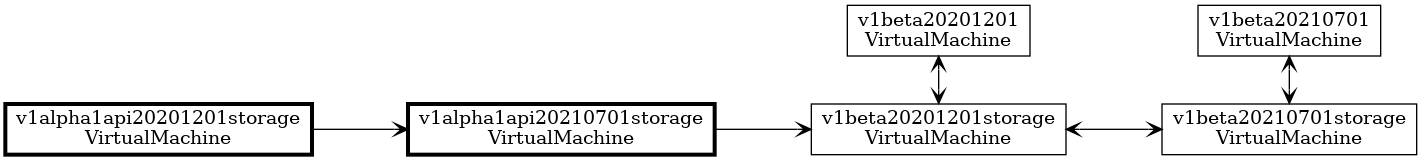
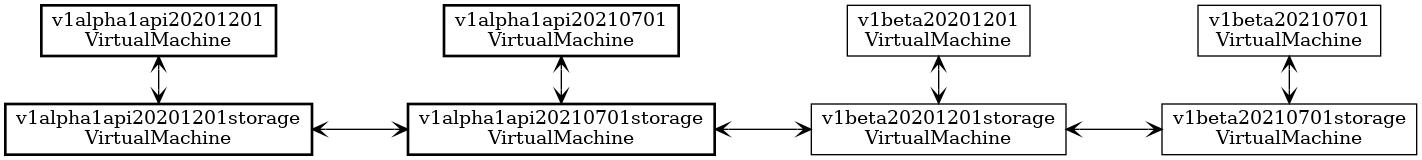
Update our decision doc on how we transition to beta (#2167)

diff --git a/docs/hugo/content/architecture-decision-records/ADR-2022-02-Backward-Compatibility.md b/docs/hugo/content/architecture-decision-records/ADR-2022-02-Backward-Compatibility.md
@@ -1,36 +1,120 @@
 # Context
 
-As we close in on a beta release, we want to modify the version prefix used for code-generated resources.
+As we close in on a beta release, we are considering modification of the version prefix used for code-generated resources.
 
-We don't want to maroon existing users of Azure Service Operator (ASO) by making this a breaking change.
+## Option 1: Do nothing
 
-Cross version compatibility between ARM versions of a resource (that is, between `v1alpha1api20180101` and `v1alpha1api20200101`) is already implemented and well tested, so we want to leverage that existing infrastructure.
+Leave all generated resources using the alpha prefix that is currently in use.
+
+Pros
+
+* Easy to implement (nothing to do) and quick to deliver
+
+Cons
+
+* Introduces an inconsistency between the status of ASO (beta) and the labelling of the resources (alpha).
+  
+* Might be perceived by some users as indicating these particular resources are still in alpha, and therefore pose significant a barrier to adoption of ASO.
+
+## Option 2: Move all resources to beta
+
+Change the generated prefix for all resources
+
+Pros
+
+* Easy to implement (change the prefix, update affected tests, and regenerate all files), and quick to deliver
+
+Cons
+
+* Existing clusters with custom resources (CRs) reliant on ASO would break because ASO would no longer support the older alpha version.  
+  Mitigation: Users would need to manually delete the existing resource and creating a new CR with an updated version.
+
+* Any attempt to apply old alpha YAML will fail, as it no longer exists. This includes attempting to manually apply a YAML using `kubectl apply -f`, and through some other approaches where YAMLs are continuously applied, as in GitOps style workflows.  
+  Mitigation: For manual uses, modification of the YAML files being applied to change the version of the resources.  
+  Mitigation: For automated uses, modification of the deployment pipelines to change the version of the resources.
+
+## Option 3a: In-place upgrade for existing resources
+
+Change the generated prefix to `v1beta` for all resources, but retain the alpha storage variants of each existing resource. This would allow an upgraded ASO installation to promote any existing resources to the new storage version.
+
+Pros
+
+* Moderate effort to implement (requires a new pipeline stage to create the alpha storage variants for compatibility with older versions).
+  
+* Existing clusters with custom resources reliant on ASO would continue to run because ASO would support conversion from the old hub version to the new.
+
+Cons
+
+* Any attempt to apply old alpha YAML will fail, as it no longer exists. This includes attempting to manually apply a YAML using `kubectl apply -f`, and through some other approaches where YAMLs are continuously applied, as in GitOps style workflows.  
+  Mitigation: For manual uses, modification of the YAML files being applied to change the version of the resources.  
+  Mitigation: For automated uses, modification of the deployment pipelines to change the version of the resources.
+
+* CRDs will be 50% bigger than the alpha versions, due to the addition of another storage variant.  
+  Observation: We know there is an upper limit to the size of each CRD, though we're not very close to that yet.
+  Mitigation: Prune all documentation from the alpha variants to make them (much!) smaller
+
+## Option 3b: Retain the alpha version for existing resources
+
+Use a beta prefix for all resources. Also use our existing alpha prefix for all resources that were included in any alpha release of ASO, but not for new resources.
+
+Pros
+
+* Moderate effort to implement (requires pipeline and configuration changes to generate multiple versions of some resources).  
+  Observation: We could implement this in two parts, firstly generating all resources with both prefixes for `codegen-beta-0`, and then introducing configuration for newer resources in `codegen-beta-1`.
+
+* Existing clusters with custom resources reliant on ASO would continue to run because ASO would support conversion from the old hub version to the new.
+
+* Existing use of YAML containing alpha versions will continue to work, as they are still supported. This includes attempting to manually apply a YAML using `kubectl apply -f`, and through some other approaches where YAMLs are continuously applied, as in GitOps style workflows.  
+
+Cons
+
+* CRDs will be twice the size of the alpha versions, due to the addition of both API and storage variants.  
+  Observation: We know there is an upper limit to the size of each CRD, though we're not very close to that yet.  
+  Mitigation: Prune all documentation from the alpha resource versions
+
+* Possible user confusion from having multiple versions of each resource.  
+  Mitigation: Pruning documentation would push users towards the beta versions.
+
+## Other factors
+
+We don't want to maroon existing users of Azure Service Operator (ASO) by making this a breaking change. It's important to us to make upgrades of ASO as straightforward as possible.
+
+Cross version compatibility between ARM versions of a resource (that is, for example, between `v1alpha1api20180101` and `v1alpha1api20200101`) is already implemented and well tested, so we should leverage that existing infrastructure.
 
 Version skew policy in the Kubernetes ecosystem is to allow for one or two older minor versions of backward compatibility. This gives us the *option* of temporarily introducing backward compatibility with the `codegen-beta-0` release and then dropping it once we reach `codegen-beta-2` or greater. 
+
+
 # Decision
 
-Change the prefix used from `v1alpha1api` to simply `v1beta`. (We don't need a minor number as part of the prefix. The original intention was to increment the minor version with each release of the operator, but the overhead of this is very high, so we've instead used the prefix `v1alpha1api` for all our alpha releases.)
+We choose to prioritize a good upgrade experience for our users. We'll proceed with option 3b (Retain the alpha version for existing resources).
 
-Introduce a new pipeline stage to create additional storage versions for backward compatibility, each created by cloning an existing storage version but using a package name based on the old `v1alpha1api` prefix.
+Change the prefix used for our resources from `v1alpha1api` to simply `v1beta`. (We don't need a minor number as part of the prefix. The original intention was to increment the minor version with each release of the operator, but the overhead of this is very high, so we've instead used the prefix `v1alpha1api` for all our alpha releases.)
 
-For example, the storage version of the `compute` resource `v1beta20201201/VirtualMachine` is `v1beta20201201storage/VirtualMachine`. The new pipeline stage will clone that resource as `v1alpha1api20201201storage/VirtualMachine` and subsequent pipeline stages will create the necessary conversion.
+## Beta 0 Release
+
+All resources will be duplicated, published as both `v1beta` and as `v1alpha1api`. This includes new resources published for the first time in the beta.
+
+Introduce a new pipeline stage to create additional versions for backward compatibility, each created by cloning an existing version but using a package name based on the old `v1alpha1api` prefix.
+
+For example, the API resource `v1beta20201201storage/VirtualMachine` will be cloned as `v1alpha1api20201201/VirtualMachine`. Subsequent pipeline stages will create matching storage versions and the necessary conversions.
 
 ![image](images/adr-2022-02-backward-compatibility-single-version.png)
 
 For the trivial case where we only support a single ARM version of a resource, this gives us full compatibility to upgrade an older (alpha) installation of ASO to a new beta release.
 
-When we have multiple ARM versions in flight (as we do with `compute`), supporting all *potential* older resource versions gives us maximum compatibility without any need for configuration or to make any assumptions about which ARM versions were previously supported. 
+When we have multiple ARM versions in flight (as we do with `compute`), supporting all *potential* older resource versions gives us maximum compatibility without any need for configuration or to make any assumptions about which ARM versions were previously supported.
 
 ![image](images/adr-2022-02-backward-compatibility-multiple-version.png)
 
 This approach also gives us backward compatibility when we have a mix of resources across multiple versions (as happens with both `compute` and `network`). We know from prior work (including introduction of the `PropertyBag` field) that conversions between storage versions are lossless.
 
-We'll only drop these backward compatibility types if it is necessary to do so.
+## Beta 1 Release
 
-Reasons for this include (but are not limited to):
+Additional configuration will ensure that resources introduced in that (or later) releases won't include alpha versions. This configuration will require opt-in for backward compatibility, so that the overhead for new resources is as low as possible. [Issue #2176](https://github.com/Azure/azure-service-operator/issues/2176) has been logged to track this work.
 
-* A breaking change to the structure of our storage resources
-* A desire (or need) to reduce the size of our CRD definitions
+## Beta n Release
+
+At some point, after giving users of ASO alpha releases a reasonable time frame, we will drop the alpha versions. We'll document this plan as a part of the **Beta 0** release.
 
 # Status
 
@@ -43,9 +127,11 @@ With the supported format for old resources being derived from newer resources, 
 Factors reducing the severity of this include:
 
 * Our object shapes are defined by ARM resource versions, which have tight constraints on the types of permitted changes, so we're unlikely to have breaking changes from that source.
-* We have exactly the same compatibility issues between adjacent ASO releases, so our changes to the generator already have to consider this.
-* We only need to maintain backward compatibility across a small number of versions.
 
+* We have exactly the same compatibility issues between adjacent ASO releases, so our changes to the generator already have to consider this.
+
+* We only need to maintain backward compatibility across a small number of versions.
+  
 # Experience Report
 
 TBC.
